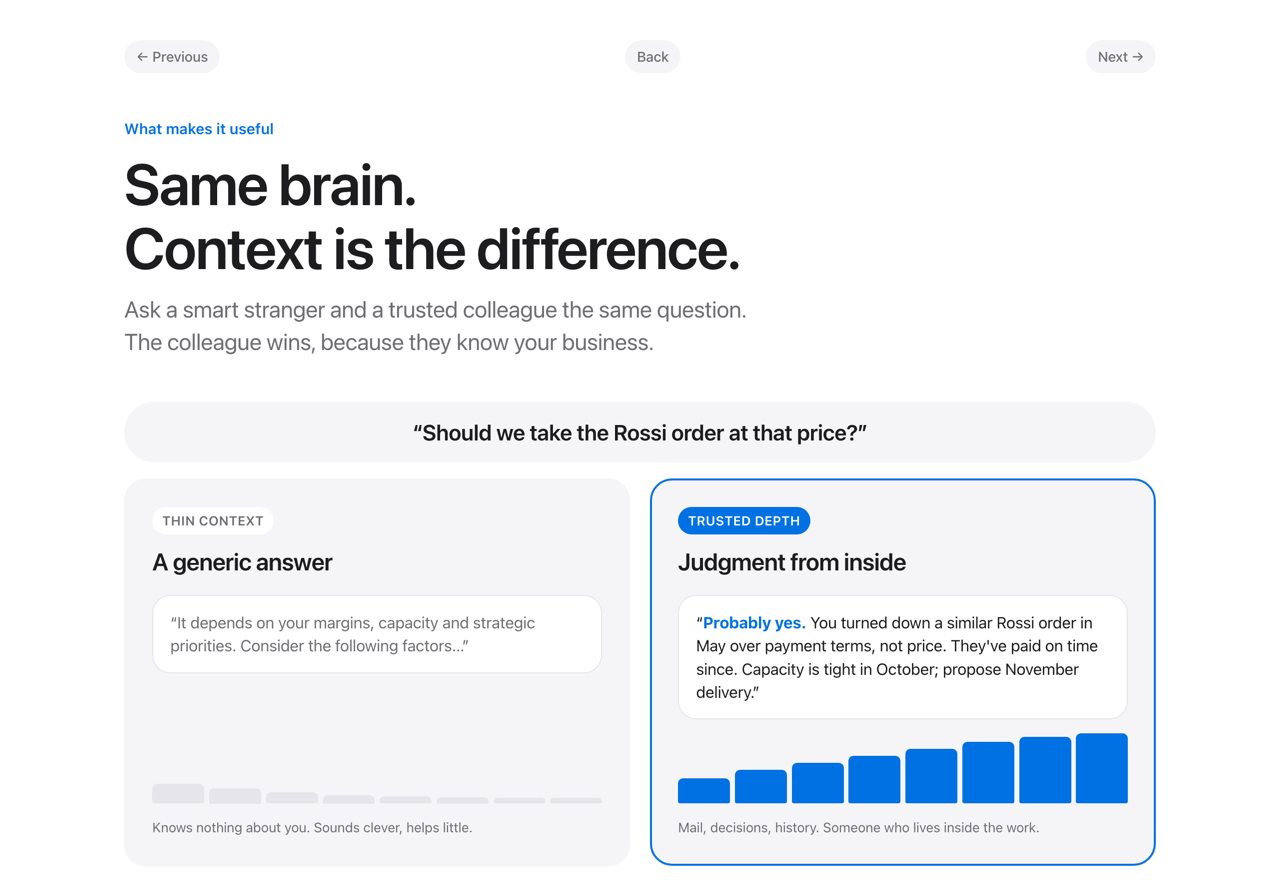
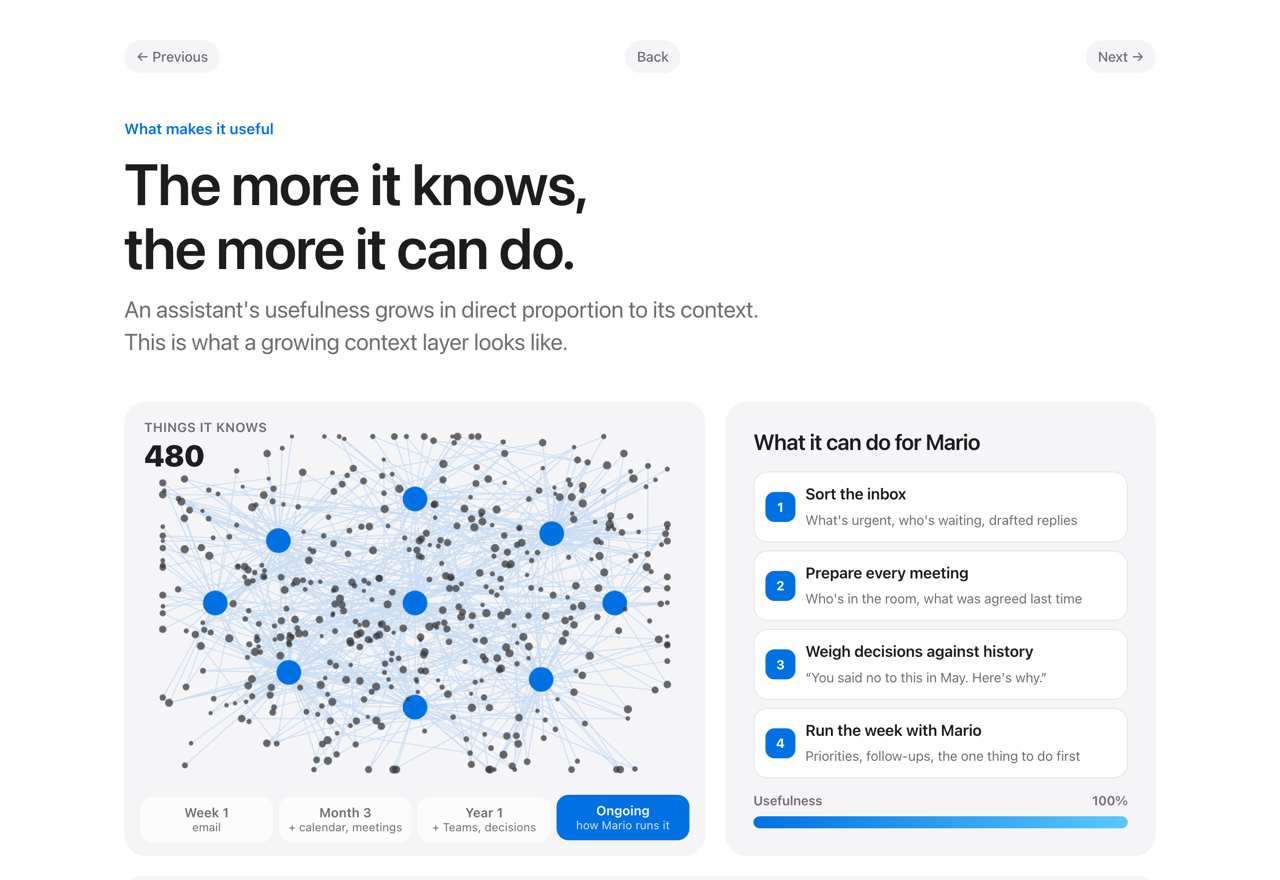
Graphic 2: a growing context layer, usefulness in proportion to context

diff --git a/graphics/2-what-makes-it-useful.html b/graphics/2-what-makes-it-useful.html
@@ -6,38 +6,35 @@
 <title>What makes it useful — Milano Bro</title>
 <link rel="stylesheet" href="./shared.css" />
 <style>
-.q{text-align:center;font-size:clamp(18px,2.4vw,22px);font-weight:600;background:var(--bg2);border-radius:999px;padding:14px 24px;margin-bottom:16px}
-.two{display:grid;grid-template-columns:1fr 1fr;gap:20px}
-.ans{display:flex;flex-direction:column;gap:14px}
-.ans.deep{outline:2px solid var(--blue);outline-offset:-2px}
-.bub{background:var(--bg);border-radius:18px;padding:16px 18px;font-size:16px;line-height:1.45;box-shadow:inset 0 0 0 1px var(--line);opacity:0;transform:translateY(8px);animation:up .6s var(--ease) forwards}
-.thin .bub{animation-delay:.7s;color:var(--mute)}
-.deep .bub{animation-delay:1.1s}
-.deep .bub b{color:var(--blue)}
-.meter{margin-top:auto;display:flex;align-items:flex-end;gap:5px;height:70px}
-.meter i{flex:1;border-radius:5px 5px 2px 2px;background:var(--line);transform-origin:bottom;transform:scaleY(0);animation:bar .8s var(--ease) forwards}
-.deep .meter i{background:var(--blue)}
-.meter i:nth-child(1){animation-delay:1.3s}.meter i:nth-child(2){animation-delay:1.4s}.meter i:nth-child(3){animation-delay:1.5s}.meter i:nth-child(4){animation-delay:1.6s}.meter i:nth-child(5){animation-delay:1.7s}.meter i:nth-child(6){animation-delay:1.8s}.meter i:nth-child(7){animation-delay:1.9s}.meter i:nth-child(8){animation-delay:2.0s}
-@keyframes bar{to{transform:scaleY(1)}}
-.ml{font-size:13.5px;color:var(--mute)}
-/* growth */
-.grow{margin-top:20px}
-.rings{display:grid;grid-template-columns:repeat(4,1fr);gap:14px;align-items:end;margin-top:8px}
-.r{text-align:center}
-.disc{margin:0 auto 12px;border-radius:50%;display:grid;place-items:center;font-weight:600;color:var(--blue);background:var(--blue-soft);transform:scale(.6);opacity:0;animation:disc .7s var(--ease) forwards}
-.r:nth-child(1) .disc{width:60px;height:60px;font-size:13px;animation-delay:2.2s}
-.r:nth-child(2) .disc{width:90px;height:90px;font-size:14px;animation-delay:2.45s}
-.r:nth-child(3) .disc{width:122px;height:122px;font-size:15px;animation-delay:2.7s}
-.r:nth-child(4) .disc{width:156px;height:156px;font-size:16px;animation-delay:2.95s;background:linear-gradient(135deg,var(--blue),#5ac8fa);color:#fff;box-shadow:0 10px 30px rgba(0,113,227,.28)}
-@keyframes disc{to{transform:none;opacity:1}}
-.r b{display:block;font-size:16px;font-weight:600}
-.r span{font-size:13.5px;color:var(--mute)}
-.boundary{margin-top:22px;display:grid;grid-template-columns:auto 1fr;gap:16px;align-items:center;background:var(--bg);border-radius:16px;padding:14px 18px;box-shadow:inset 0 0 0 1.5px var(--amber)}
+.stagewrap{display:grid;grid-template-columns:1.35fr 1fr;gap:20px;align-items:stretch}
+.graphcard{padding:0;overflow:hidden;position:relative;min-height:420px;background:var(--bg2)}
+canvas{display:block;width:100%;height:100%}
+.count{position:absolute;left:20px;top:16px;font-size:13px;color:var(--mute);font-weight:600;letter-spacing:.02em;text-transform:uppercase}
+.count b{display:block;font-size:30px;color:var(--ink);letter-spacing:-.02em;font-variant-numeric:tabular-nums;line-height:1.1;margin-top:2px}
+.stages{display:flex;gap:6px;position:absolute;left:16px;right:16px;bottom:14px}
+.stg{flex:1;border:0;background:rgba(255,255,255,.7);color:var(--mute);border-radius:12px;padding:8px 6px;font:inherit;font-size:13px;font-weight:600;cursor:pointer;text-align:center;line-height:1.2;transition:background .3s,color .3s,transform .3s var(--ease)}
+.stg small{display:block;font-weight:400;font-size:11.5px;color:var(--mute)}
+.stg.on{background:var(--blue);color:#fff;transform:translateY(-2px)}
+.stg.on small{color:rgba(255,255,255,.85)}
+.side{display:flex;flex-direction:column;gap:12px}
+.side h2{font-size:22px}
+.unlock{display:grid;gap:8px}
+.u{display:grid;grid-template-columns:30px 1fr;gap:10px;align-items:center;background:var(--bg);border-radius:14px;padding:11px 12px;box-shadow:inset 0 0 0 1px var(--line);opacity:.35;transition:opacity .5s var(--ease),transform .5s var(--ease);transform:translateX(6px)}
+.u.on{opacity:1;transform:none}
+.u .d{width:30px;height:30px;border-radius:9px;background:var(--blue-soft);color:var(--blue);display:grid;place-items:center;font-size:13px;font-weight:700}
+.u.on .d{background:var(--blue);color:#fff}
+.u b{display:block;font-size:15.5px;font-weight:600}
+.u span{font-size:13.5px;color:var(--mute)}
+.meter{margin-top:auto}
+.meter .l{display:flex;justify-content:space-between;font-size:13px;color:var(--mute);font-weight:600;margin-bottom:6px}
+.meter .bar{height:12px;border-radius:999px;background:var(--line);overflow:hidden}
+.meter .bar i{display:block;height:100%;width:0;border-radius:999px;background:linear-gradient(90deg,var(--blue),#5ac8fa);transition:width .6s var(--ease)}
+.boundary{margin-top:20px;display:grid;grid-template-columns:auto 1fr;gap:16px;align-items:center;background:var(--bg2);border-radius:16px;padding:14px 18px}
 .lock{width:42px;height:42px;border-radius:12px;background:var(--amber);display:grid;place-items:center}
 .lock svg{width:20px;height:20px;fill:none;stroke:#fff;stroke-width:2;stroke-linecap:round;stroke-linejoin:round}
 .boundary p{font-size:15.5px}.boundary b{font-weight:600}
-@media (max-width:760px){.two{grid-template-columns:1fr}.rings{grid-template-columns:1fr 1fr}}
-@media (max-width:460px){.boundary{grid-template-columns:1fr}}
+@media (max-width:820px){.stagewrap{grid-template-columns:1fr}.graphcard{min-height:360px}}
+@media (max-width:460px){.boundary{grid-template-columns:1fr}.stg small{display:none}}
 </style>
 </head>
 <body>
@@ -45,41 +42,100 @@
   <nav class="nav"><a href="./1-what-an-agent-is.html">← Previous</a><a href="../">Back</a><a href="./3-hermes-for-mario.html">Next →</a></nav>
 
   <p class="eyebrow up">What makes it useful</p>
-  <h1 class="up d1">Same brain.<br>Context is the difference.</h1>
-  <p class="lead up d2">Ask a smart stranger and a trusted colleague the same question. The colleague wins, because they know your business.</p>
+  <h1 class="up d1">The more it knows,<br>the more it can do.</h1>
+  <p class="lead up d2">An assistant's usefulness grows in direct proportion to its context. This is what a growing context layer looks like.</p>
 
-  <div class="q up d3">“Should we take the Rossi order at that price?”</div>
-  <div class="two">
-    <section class="card ans thin up d4">
-      <div><span class="chip">Thin context</span><h2>A generic answer</h2></div>
-      <div class="bub">“It depends on your margins, capacity and strategic priorities. Consider the following factors…”</div>
-      <div class="meter" aria-hidden="true"><i style="height:28%"></i><i style="height:22%"></i><i style="height:16%"></i><i style="height:12%"></i><i style="height:10%"></i><i style="height:9%"></i><i style="height:8%"></i><i style="height:8%"></i></div>
-      <p class="ml">Knows nothing about you. Sounds clever, helps little.</p>
+  <div class="stagewrap">
+    <section class="card graphcard up d3">
+      <canvas id="g" aria-label="A growing web of connected notes: emails, people, meetings and decisions"></canvas>
+      <div class="count">Things it knows<b id="n">0</b></div>
+      <div class="stages" id="stages">
+        <button class="stg" data-i="0">Week 1<small>email</small></button>
+        <button class="stg" data-i="1">Month 3<small>+ calendar, meetings</small></button>
+        <button class="stg" data-i="2">Year 1<small>+ Teams, decisions</small></button>
+        <button class="stg" data-i="3">Ongoing<small>how Mario runs it</small></button>
+      </div>
     </section>
-    <section class="card ans deep up d5">
-      <div><span class="chip blue">Trusted depth</span><h2>Judgment from inside</h2></div>
-      <div class="bub">“<b>Probably yes.</b> You turned down a similar Rossi order in May over payment terms, not price. They've paid on time since. Capacity is tight in October; propose November delivery.”</div>
-      <div class="meter" aria-hidden="true"><i style="height:36%"></i><i style="height:48%"></i><i style="height:58%"></i><i style="height:68%"></i><i style="height:78%"></i><i style="height:88%"></i><i style="height:95%"></i><i style="height:100%"></i></div>
-      <p class="ml">Mail, decisions, history. Someone who lives inside the work.</p>
+
+    <section class="card side up d4">
+      <h2>What it can do for Mario</h2>
+      <div class="unlock" id="unlock">
+        <div class="u"><div class="d">1</div><div><b>Sort the inbox</b><span>What's urgent, who's waiting, drafted replies</span></div></div>
+        <div class="u"><div class="d">2</div><div><b>Prepare every meeting</b><span>Who's in the room, what was agreed last time</span></div></div>
+        <div class="u"><div class="d">3</div><div><b>Weigh decisions against history</b><span>“You said no to this in May. Here's why.”</span></div></div>
+        <div class="u"><div class="d">4</div><div><b>Run the week with Mario</b><span>Priorities, follow-ups, the one thing to do first</span></div></div>
+      </div>
+      <div class="meter"><div class="l"><span>Usefulness</span><span id="pct">0%</span></div><div class="bar"><i id="fill"></i></div></div>
     </section>
   </div>
 
-  <section class="card grow up d6">
-    <h2>The context layer grows. So does the value.</h2>
-    <div class="rings">
-      <div class="r"><div class="disc">Wk 1</div><b>Your inbox</b><span>What's urgent, who's waiting</span></div>
-      <div class="r"><div class="disc">Mo 3</div><b>Your people</b><span>Who matters, what was agreed</span></div>
-      <div class="r"><div class="disc">Yr 1</div><b>Your decisions</b><span>What you chose, and why</span></div>
-      <div class="r"><div class="disc">Ongoing</div><b>How you run it</b><span>A private memory any model can use</span></div>
-    </div>
-    <div class="boundary">
-      <div class="lock" aria-hidden="true"><svg viewBox="0 0 24 24"><rect x="4" y="11" width="16" height="10" rx="2"/><path d="M8 11V7a4 4 0 0 1 8 0v4"/></svg></div>
-      <p><b>Stays inside your boundary.</b> Mail, docs and decisions live in an account Milano Bro controls. Change AI models freely; the memory stays yours.</p>
-    </div>
-  </section>
+  <div class="boundary up d5">
+    <div class="lock" aria-hidden="true"><svg viewBox="0 0 24 24"><rect x="4" y="11" width="16" height="10" rx="2"/><path d="M8 11V7a4 4 0 0 1 8 0v4"/></svg></div>
+    <p><b>The context stays inside Milano Bro's boundary.</b> It lives in an account the company controls. AI models come and go; the memory stays and keeps growing.</p>
+  </div>
 
-  <p class="tagline up d7">Own the context, not just the prompts.<small>That is the real leverage.</small></p>
-  <div class="foot"><span>Milano Bro · working session · 24 Sept 2026</span><span>Illustrative example. No Milano Bro data is connected.</span></div>
+  <p class="tagline up d6">Own the context, not just the prompts.<small>Same intelligence. Very different results.</small></p>
+  <div class="foot"><span>Milano Bro · working session · 24 Sept 2026</span><span>Illustrative. The graph is a drawing, not company data.</span></div>
 </div>
+
+<script>
+(function(){
+  var cv=document.getElementById('g'),ctx=cv.getContext('2d');
+  var STAGES=[{n:14,pct:15},{n:70,pct:40},{n:220,pct:75},{n:480,pct:100}];
+  var TOTAL=STAGES[3].n;
+  var reduce=matchMedia('(prefers-reduced-motion: reduce)').matches;
+  // seeded random
+  var seed=7;function rnd(){seed=(seed*16807)%2147483647;return (seed-1)/2147483646}
+  // build graph: hubs + members, positions in unit space
+  var nodes=[],edges=[];
+  var hubs=[[.5,.5],[.24,.32],[.76,.3],[.26,.7],[.74,.72],[.5,.2],[.5,.8],[.12,.5],[.88,.5]];
+  for(var i=0;i<TOTAL;i++){
+    var h;
+    if(i<hubs.length){nodes.push({x:hubs[i][0],y:hubs[i][1],r:7,hub:true});if(i>0)edges.push([i,0]);continue}
+    h=Math.floor(rnd()*Math.min(hubs.length,3+Math.floor(i/40)));
+    var a=rnd()*Math.PI*2, d=(.05+rnd()*.17)*(1+i/TOTAL*.6);
+    var x=hubs[h][0]+Math.cos(a)*d, y=hubs[h][1]+Math.sin(a)*d*1.15;
+    nodes.push({x:Math.min(.98,Math.max(.02,x)),y:Math.min(.98,Math.max(.02,y)),r:2+rnd()*2.2,hub:false});
+    edges.push([i,h]);
+    if(rnd()<.55){edges.push([i,Math.floor(rnd()*i)])}
+  }
+  var W,H,dpr;
+  function size(){dpr=Math.min(2,window.devicePixelRatio||1);var r=cv.getBoundingClientRect();W=r.width;H=r.height;cv.width=W*dpr;cv.height=H*dpr;ctx.setTransform(dpr,0,0,dpr,0,0)}
+  window.addEventListener('resize',function(){size();draw(shown)});
+  var cs=getComputedStyle(document.documentElement);
+  var BLUE=cs.getPropertyValue('--blue').trim()||'#0071e3', LINE='rgba(0,113,227,.18)', DOT='#3a3a3c';
+  var shown=0;
+  function draw(k){
+    ctx.clearRect(0,0,W,H);
+    var pad=28, gw=W-pad*2, gh=H-pad*2-52;
+    function px(n){return pad+n.x*gw} function py(n){return pad+n.y*gh}
+    ctx.lineWidth=1;ctx.strokeStyle=LINE;
+    ctx.beginPath();
+    for(var e=0;e<edges.length;e++){var a=edges[e][0],b=edges[e][1];if(a>=k||b>=k)continue;ctx.moveTo(px(nodes[a]),py(nodes[a]));ctx.lineTo(px(nodes[b]),py(nodes[b]))}
+    ctx.stroke();
+    for(var i=0;i<k&&i<nodes.length;i++){var n=nodes[i];ctx.beginPath();ctx.arc(px(n),py(n),n.hub?n.r+Math.min(6,k/90):n.r,0,Math.PI*2);ctx.fillStyle=n.hub?BLUE:DOT;ctx.globalAlpha=n.hub?1:.75;ctx.fill();ctx.globalAlpha=1}
+    // newest node pulse
+    if(k>0&&k<nodes.length){var m=nodes[k-1];ctx.beginPath();ctx.arc(px(m),py(m),9,0,Math.PI*2);ctx.strokeStyle=BLUE;ctx.globalAlpha=.5;ctx.stroke();ctx.globalAlpha=1}
+  }
+  var stgBtns=[].slice.call(document.querySelectorAll('.stg')),us=[].slice.call(document.querySelectorAll('.u'));
+  var nEl=document.getElementById('n'),pct=document.getElementById('pct'),fill=document.getElementById('fill');
+  function ui(k){
+    var s=0;for(var i=0;i<STAGES.length;i++){if(k>=STAGES[i].n*.85)s=i}
+    stgBtns.forEach(function(b,i){b.classList.toggle('on',i===s)});
+    us.forEach(function(u,i){u.classList.toggle('on',i<=s)});
+    var p=Math.round(STAGES[s].pct*Math.min(1,k/STAGES[s].n));
+    // interpolate between stage pcts
+    var lo=s?STAGES[s-1]:{n:0,pct:0},hi=STAGES[s];p=Math.round(lo.pct+(hi.pct-lo.pct)*Math.min(1,(k-lo.n)/(hi.n-lo.n)));
+    pct.textContent=p+'%';fill.style.width=p+'%';nEl.textContent=k.toLocaleString();
+  }
+  var target=TOTAL,start=null,from=0,dur=9000,raf;
+  function ease(t){return 1-Math.pow(1-t,3)}
+  function anim(ts){if(!start)start=ts;var t=Math.min(1,(ts-start)/dur);shown=Math.round(from+(target-from)*ease(t));draw(shown);ui(shown);if(t<1)raf=requestAnimationFrame(anim)}
+  function go(i){cancelAnimationFrame(raf);from=shown;target=STAGES[i].n;dur=Math.max(900,Math.abs(target-from)*10);start=null;raf=requestAnimationFrame(anim)}
+  stgBtns.forEach(function(b){b.addEventListener('click',function(){go(+b.dataset.i)})});
+  size();
+  if(reduce){shown=TOTAL;draw(shown);ui(shown)} else {setTimeout(function(){raf=requestAnimationFrame(anim)},500)}
+})();
+</script>
 </body>
 </html>
